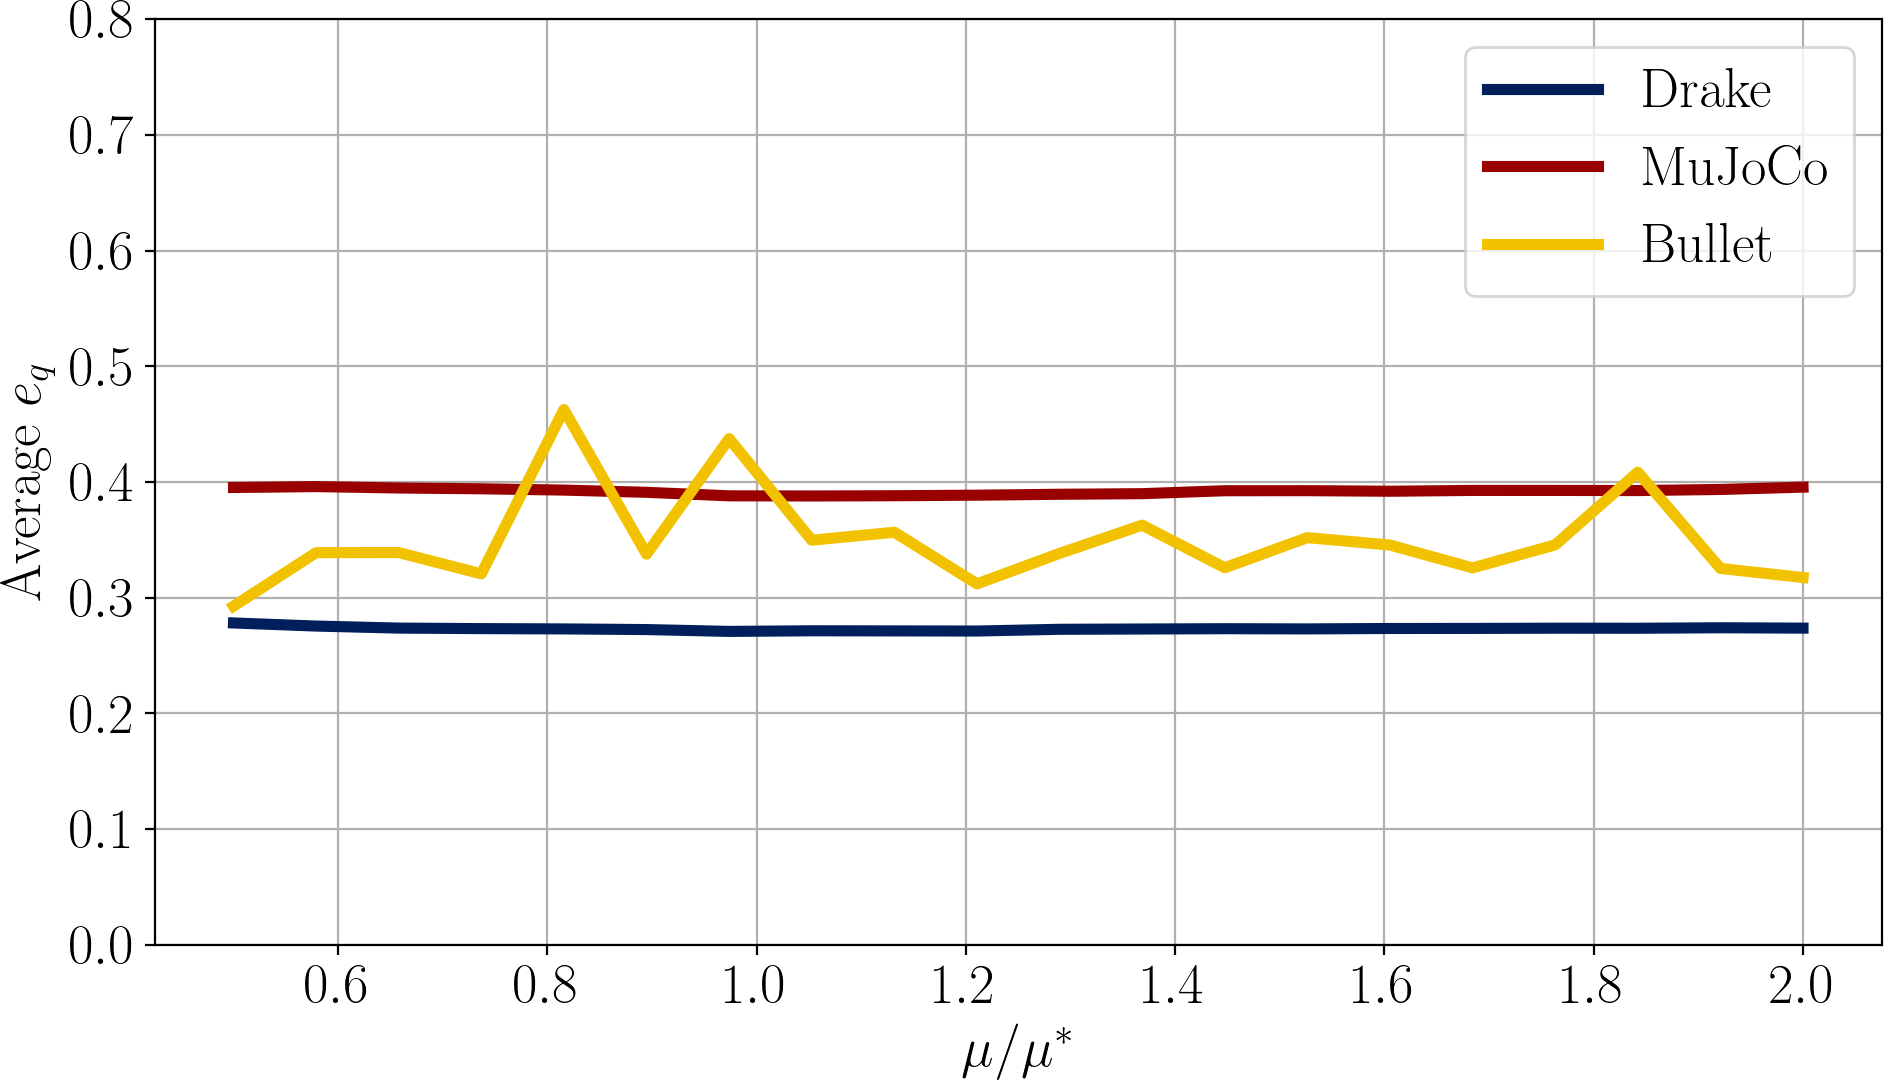
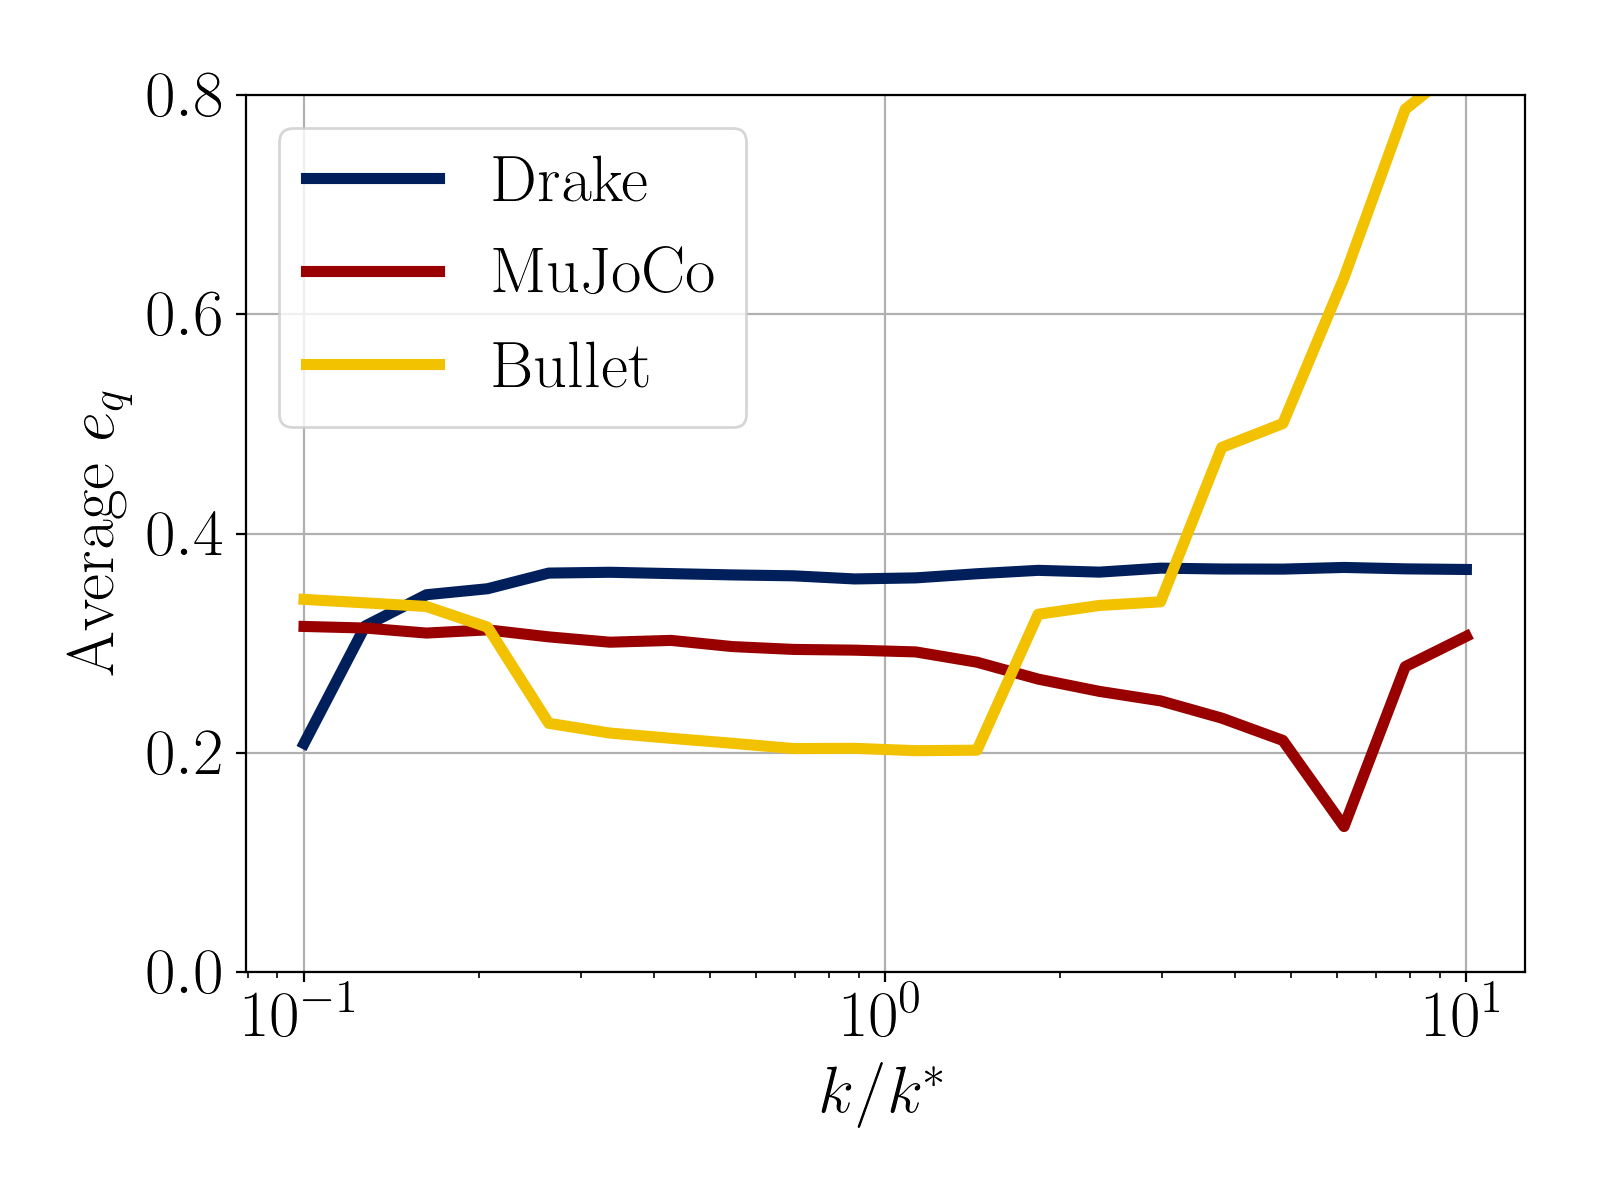
fixed bullet buggit add .

diff --git a/examples/contact_parameter_learning/cube_figures.py b/examples/contact_parameter_learning/cube_figures.py
@@ -15,7 +15,7 @@ import sensitivity_analysis as sa
 from pydairlib.common.plot_styler import PlotStyler
 
 
-figure_directory = os.path.join(os.getcwd(), 'examples/contact_parameter_learning/figures/testing')
+figure_directory = os.path.join(os.getcwd(), 'examples/contact_parameter_learning/figures/')
 
 ps = PlotStyler()
 ps.set_default_styling(directory=figure_directory, figsize=(10,6))
@@ -24,7 +24,7 @@ sim_colors = {'Drake' : ps.blue, 'MuJoCo': ps.red, 'Bullet' : ps.yellow}
 
 paper_ids = ['drake_2021_09_11_16_44_10',
             'mujoco_2021_09_12_10_27_10', 
-           'bullet_2021_09_12_22_00_10']
+           'bullet_2021_09_13_23_26_10']
 
 # def plot_damping_ratios(ids):
 #     stiffness = []
@@ -43,11 +43,12 @@ def plot_estimated_loss_pdfs(losses):
     i = 0
     legend_strs = []
     filename = ''
+    styles = ['-', '-', '--']
     for result in training_results:
         loss = np.array(list(losses[result].values()))
-        pts = np.linspace(np.min(loss), np.max(loss), 10)
+        pts = np.linspace(np.min(loss), np.max(loss), 100)
         pdf = gaussian_kde(loss).pdf(pts)
-        ps.plot(pts, pdf, color=ps.penn_color_wheel[i])
+        ps.plot(pts, pdf, linestyle=styles[i], color=ps.penn_color_wheel[i])
         legend_strs.append(format_sim_name(result))# + ' $T_{sim}$ = ' + str(148 * int(result.split('_')[-1])) + ' Hz')
         filename += format_sim_name(result) + '_' + result.split('_')[-1] + '_'
         i += 1
@@ -91,7 +92,7 @@ def make_training_loss_sensitivity_analysis(ids, params_ranges):
         sim_type = id.split('_')[0]
         sim = cube_eval.get_eval_sim(id)
         params, _, _ = cube_eval.load_params_and_logs(id)
-        test_set = sample(range(550), 100)
+        test_set = range(550)
 
         weights = FastLossWeights(
             pos=(1.0/BLOCK_HALF_WIDTH)*np.ones((3,)),
@@ -143,7 +144,7 @@ def make_stiffness_sensitivity_analysis_figure():
         k_ratio = np.array(params_ranges[id]['stiffness']) / k_opt
         ps.plot(k_ratio, sweeps[id]['loss_avg']['stiffness'], color=sim_colors[format_sim_name(id)])
 
-    plt.xlabel('k / k^{*}$')
+    plt.xlabel('$k / k^{*}$')
     plt.xscale('log')
     plt.legend(legend_strs)
     plt.ylabel('Average $e_{q}$')
@@ -175,7 +176,6 @@ def make_friction_sensitivity_analysis_figure():
         ps.plot(k_ratio, sweeps[id]['loss_avg'][mu_keys[id]], color=sim_colors[format_sim_name(id)])
 
     plt.xlabel('$\mu / \mu^{*}$')
-    plt.xscale('log')
     plt.legend(legend_strs)
     # plt.ylabel('Average $e_{q}$')
     plt.ylim((0, 0.8))
@@ -254,7 +254,7 @@ def make_estimated_pdf_figure():
 
 def make_contact_impulse_plot():
     ids = paper_ids
-    traj_id  = 361
+    traj_id  = 259
     plot_impulses_list_of_ids(ids, traj_id)
 
 def visualize_cube_initial_condition():
@@ -268,10 +268,10 @@ def visualize_cube_initial_condition():
     sim.sim_step(CUBE_DATA_DT)
 
 if __name__ == '__main__':
-    # make_estimated_pdf_figure()
-    # make_friction_sensitivity_analysis_figure()
+    make_estimated_pdf_figure()
+    make_friction_sensitivity_analysis_figure()
     make_damping_sensitivity_analysis_figure()
-    # make_stiffness_sensitivity_analysis_figure()
+    make_stiffness_sensitivity_analysis_figure()
     # make_error_vs_time_plot()
-    # make_contact_impulse_plot()
+    make_contact_impulse_plot()
     # visualize_cube_initial_condition()

diff --git a/examples/contact_parameter_learning/evaluate_cube_parameters.py b/examples/contact_parameter_learning/evaluate_cube_parameters.py
@@ -321,7 +321,7 @@ if (__name__ == '__main__'):
 
     ids = ['mujoco_2021_09_12_10_27_10', 
            'drake_2021_09_11_16_44_10',
-           'bullet_2021_09_12_22_00_10']
+           'bullet_2021_09_13_23_26_10']
 
     # ids = ['mujoco_2021_08_31_11_03_1',
     #        'mujoco_2021_08_31_12_05_10',
@@ -335,23 +335,23 @@ if (__name__ == '__main__'):
     #        'bullet_2021_08_31_12_16_10', 
     #        'bullet_2021_08_31_16_55_100']
 
-    # sorted_pairs, losses, params, sims, _ = load_list_of_results(ids, pos_rot_loss, eval_all_traj=True)
+    sorted_pairs, losses, params, sims, _ = load_list_of_results(ids, pos_rot_loss, eval_all_traj=True)
 
-    # worst_case_set, worst_case_by_id = compare_worst_case(losses)
-    # print()
-    # for i in range(3):
-    #     comp = list_complement([0, 1, 2], [i])
+    worst_case_set, worst_case_by_id = compare_worst_case(losses)
+    print()
+    for i in range(3):
+        comp = list_complement([0, 1, 2], [i])
 
-    #     fails = list_complement(list_complement(worst_case_set,
-    #         worst_case_by_id[ids[comp[0]]]), worst_case_by_id[ids[comp[1]]])
+        fails = list_complement(list_complement(worst_case_set,
+            worst_case_by_id[ids[comp[0]]]), worst_case_by_id[ids[comp[1]]])
         
-    #     print(f'{format_sim_name(ids[i])} does poorly on:')
-    #     for toss_id in fails:
-    #         print(f'{toss_id}: {losses[ids[i]][toss_id]}, \
-    #             {format_sim_name(ids[comp[0]])}: {losses[ids[comp[0]]][toss_id]}, \
-    #                  {format_sim_name(ids[comp[1]])}: {losses[ids[comp[1]]][toss_id]}')
+        print(f'{format_sim_name(ids[i])} does poorly on:')
+        for toss_id in fails:
+            print(f'{toss_id}: {losses[ids[i]][toss_id]}, \
+                {format_sim_name(ids[comp[0]])}: {losses[ids[comp[0]]][toss_id]}, \
+                     {format_sim_name(ids[comp[1]])}: {losses[ids[comp[1]]][toss_id]}')
 
-    #     print()
+        print()
 
     # visualize_learned_params(params[ids[0]], sims[ids[0]], 69)
 
@@ -368,17 +368,17 @@ if (__name__ == '__main__'):
 # # 
 #     eval_sim = get_eval_sim(learning_result)
 #     if (eval_sim == None): quit()
-    for id in ids:
-        params, _, _ = load_params_and_logs(id)
-        eval_sim = get_eval_sim(id)
-        traj_pairs = load_traj_pairs(eval_sim, params, range(550))
-        weights=cube_sim.FastLossWeights(
-            pos=(1.0/cube_sim.BLOCK_HALF_WIDTH)*np.ones((3,)),
-             bullet=(format_sim_name(id) == 'Bullet'))
-        stats = calc_error_and_loss_stats(traj_pairs, weights)
-        print()
-        print(id) 
-        print(stats)
+    # for id in ids:
+    #     params, _, _ = load_params_and_logs(id)
+    #     eval_sim = get_eval_sim(id)
+    #     traj_pairs = load_traj_pairs(eval_sim, params, range(550))
+    #     weights=cube_sim.FastLossWeights(
+    #         pos=(1.0/cube_sim.BLOCK_HALF_WIDTH)*np.ones((3,)),
+    #          bullet=(format_sim_name(id) == 'Bullet'))
+    #     stats = calc_error_and_loss_stats(traj_pairs, weights)
+    #     print()
+    #     print(id) 
+    #     print(stats)
 
 #     sorted_pairs, losses = sort_traj_pairs_by_loss(traj_pairs, pos_rot_loss)
 #     print('Test set sorted from highest to lowest MSE')

diff --git a/examples/contact_parameter_learning/bullet_cube_sim.py b/examples/contact_parameter_learning/bullet_cube_sim.py
@@ -22,6 +22,7 @@ class BulletCubeSim(CubeSim):
         self.substeps = substeps
 
     def init_sim(self, params):
+        p.resetSimulation(physicsClientId=self.client_id)
         p.setGravity(0,0,-9.81, physicsClientId=self.client_id)
         self.cube_id = p.loadURDF(cube_urdf_path, physicsClientId=self.client_id)
         self.plane_id = p.loadURDF(plane_urdf_path, useFixedBase=True,
@@ -35,7 +36,7 @@ class BulletCubeSim(CubeSim):
         p.setTimeStep(CUBE_DATA_DT / self.substeps, physicsClientId=self.client_id)
         
     def set_initial_condition(self, state):
-
+        
         initial_state = self.reexpress_state_local_to_global_omega(state)
 
         q = initial_state[CUBE_DATA_QUATERNION_SLICE]

diff --git a/examples/contact_parameter_learning/cube_sim.py b/examples/contact_parameter_learning/cube_sim.py
@@ -81,7 +81,6 @@ class FastLossWeights():
                                       [traj2[i][1], traj2[i][2], traj2[i][3], traj2[i][0]])
             theta = 2 * np.arctan2(np.linalg.norm(q1[0:3]), q1[-1])
             loss[i] = theta ** 2
-            print(loss[i])
         return np.mean(loss)
 
     def CalculateLoss(self, traj1, traj2):
